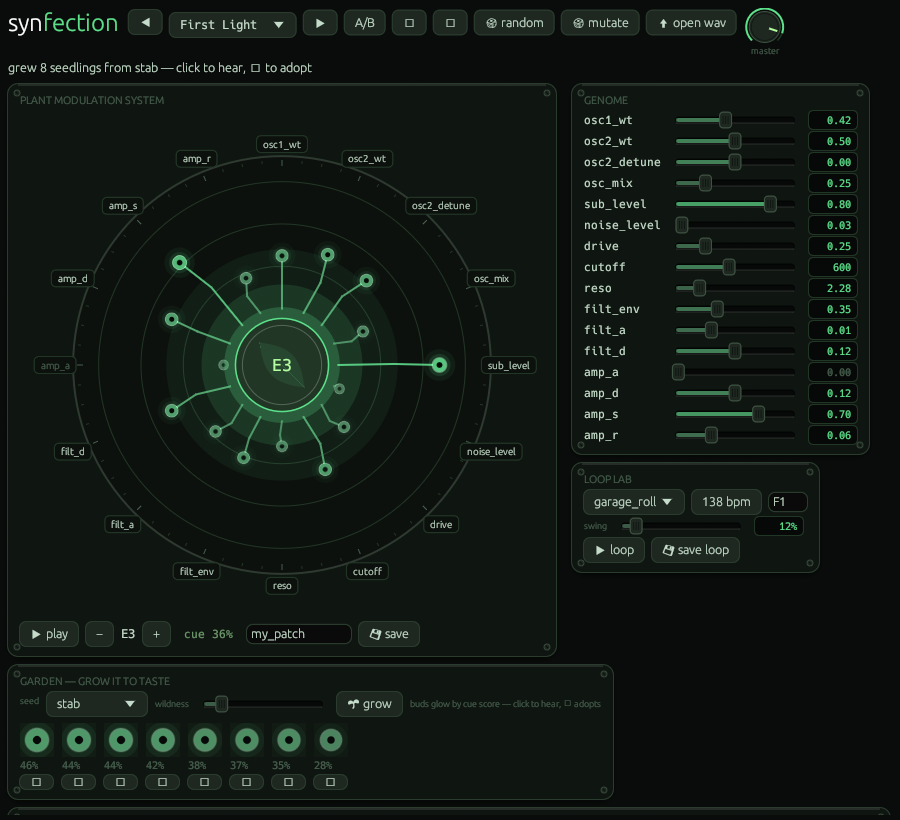
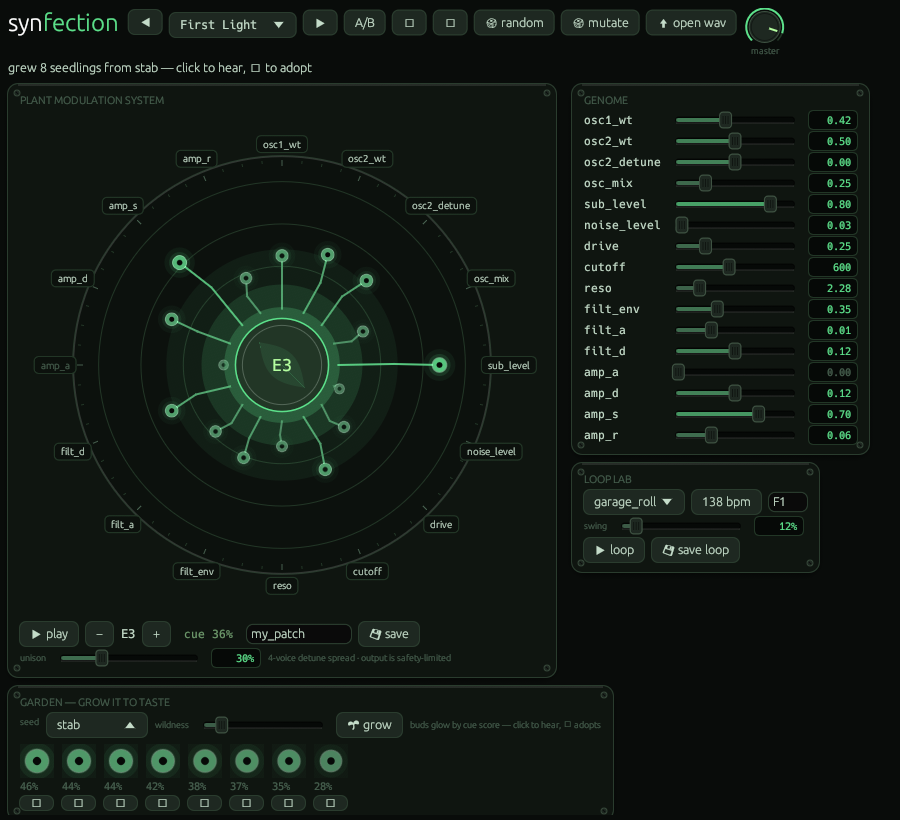
v0.3.2: fullscreen centering, output safety chain, unison thickener
- content column caps at 940px and centers when the window is wider
  (maximized no longer slopes everything to the left); windowed and
  narrow/stacked layouts unchanged
- built-in output safety on everything heard or saved: peak normalize
  to 0.9 ceiling -> RMS loudness guard (~-12 dBFS, screech protection)
  -> soft-knee tanh ceiling -> 3ms edge fades on one-shots (loops stay
  seamless). Applied to patches, loops, seedling auditions, targets.
- unison: 4-voice detune spread (5-30 cents) with decorrelating
  wrap-around offsets, loop-seam safe; slider in the plant panel
  (default 30%), applied before the safety chain so thick never clips
- tests: safety peak/rms/fade guarantees, thicken length + limit

Changed region(s): [[0.0, 0.7927, 0.6533, 1.0], [0.6844, 0.9756, 0.9956, 1.0], [0.5911, 0.7927, 0.6844, 0.8537]]

diff --git a/src/dsp.rs b/src/dsp.rs
@@ -167,6 +167,72 @@ pub fn detect_midi(x: &[f32], sr: f32) -> i32 {
     (69.0 + 12.0 * (f / 440.0).log2()).round() as i32
 }
 
+/// Unison thickener: 4 detuned voices (±depth cents) with small decorrelating
+/// offsets, wrap-around so looped buffers stay seamless. `amount` 0..1.
+pub fn thicken(x: &[f32], sr: f32, amount: f32) -> Vec<f32> {
+    if amount < 0.01 || x.len() < 64 {
+        return x.to_vec();
+    }
+    let depth = 5.0 + 25.0 * amount; // cents at full spread
+    let gain = 0.18 + 0.45 * amount; // per-voice level
+    let mut out = x.to_vec();
+    for (k, c) in [-1.0f32, -0.45, 0.45, 1.0].iter().enumerate() {
+        let ratio = 2.0f32.powf(c * depth / 1200.0);
+        let offs = (sr * 0.004 * (k as f32 + 1.0)) as usize;
+        for i in 0..x.len() {
+            let pos = i as f32 * ratio;
+            let j = pos as usize;
+            if j + 1 >= x.len() {
+                break;
+            }
+            let frac = pos - j as f32;
+            let s = x[j] * (1.0 - frac) + x[j + 1] * frac;
+            out[(i + offs) % x.len()] += s * gain;
+        }
+    }
+    out
+}
+
+const CEILING: f32 = 0.9; // peak ceiling
+const RMS_CAP: f32 = 0.25; // loudness guard (~-12 dBFS) — screech protection
+const KNEE: f32 = 0.75; // soft-clip knee start
+
+/// Built-in output safety: peak normalize -> loudness guard -> soft-knee
+/// ceiling -> click-killing edge fades (one-shots only; loops stay seamless).
+/// Guarantees nothing played or saved can clip or blast sustained loudness.
+pub fn safety(x: &mut [f32], sr: f32, looped: bool) {
+    if x.is_empty() {
+        return;
+    }
+    let peak = x.iter().fold(0.0f32, |m, v| m.max(v.abs()));
+    if peak > CEILING {
+        let s = CEILING / peak;
+        x.iter_mut().for_each(|v| *v *= s);
+    }
+    let rms = (x.iter().map(|v| (*v as f64) * (*v as f64)).sum::<f64>() / x.len() as f64).sqrt() as f32;
+    if rms > RMS_CAP {
+        let s = RMS_CAP / rms;
+        x.iter_mut().for_each(|v| *v *= s);
+    }
+    let span = CEILING - KNEE;
+    for v in x.iter_mut() {
+        let a = v.abs();
+        if a > KNEE {
+            *v = v.signum() * (KNEE + ((a - KNEE) / span).tanh() * span);
+        }
+    }
+    if !looped {
+        let n = (sr * 0.003) as usize;
+        let n = n.min(x.len() / 2).max(1);
+        for i in 0..n {
+            let g = i as f32 / n as f32;
+            x[i] *= g;
+            let last = x.len() - 1 - i;
+            x[last] *= g;
+        }
+    }
+}
+
 /// Linear resample (fine for feature extraction of mono hooks).
 pub fn resample(x: &[f32], from: f32, to: f32) -> Vec<f32> {
     if (from - to).abs() < 1e-3 {

diff --git a/src/ui.rs b/src/ui.rs
@@ -158,6 +158,7 @@ pub struct App {
     key: String,
     pattern_idx: usize,
     swing: f32,
+    unison: f32,
     // user patch library
     patch_name: String,
     user_patches: Vec<(String, std::path::PathBuf)>,
@@ -224,6 +225,7 @@ impl App {
             key: "F1".into(),
             pattern_idx: 0,
             swing: 0.12,
+            unison: 0.3,
             patch_name: "my_patch".into(),
             user_patches: list_patches(),
             user_sel: None,
@@ -234,9 +236,17 @@ impl App {
         app
     }
 
+    /// Unison thickener + output safety — everything heard or saved goes through this.
+    fn post(&self, audio: Vec<f32>, sr: f32, looped: bool) -> Vec<f32> {
+        let mut a = crate::dsp::thicken(&audio, sr, self.unison);
+        crate::dsp::safety(&mut a, sr, looped);
+        a
+    }
+
     fn render_current(&mut self) {
         let mut rng = SmallRng::seed_from_u64(0);
-        self.last_audio = synth::render_default(&self.genome, self.note as f32, &mut rng);
+        let raw = synth::render_default(&self.genome, self.note as f32, &mut rng);
+        self.last_audio = self.post(raw, synth::SR, false);
         self.last_sr = synth::SR;
     }
 
@@ -309,7 +319,8 @@ impl App {
         };
         let pat = loops::pattern(loops::PATTERN_NAMES[self.pattern_idx]).unwrap();
         let mut rng = SmallRng::seed_from_u64(0);
-        Some(loops::render_loop(&self.genome, root, self.bpm, &pat, 2, self.swing, &mut rng))
+        let raw = loops::render_loop(&self.genome, root, self.bpm, &pat, 2, self.swing, &mut rng);
+        Some(self.post(raw, loops::SR_OUT, true))
     }
 
     fn load_preset(&mut self, i: usize) {
@@ -821,6 +832,15 @@ impl eframe::App for App {
 
         egui::CentralPanel::default().show(ctx, |ui| {
             egui::ScrollArea::vertical().auto_shrink([false, false]).show(ui, |ui| {
+                // center a capped-width content column when the window is wide
+                let full = ui.available_width();
+                let content_w = full.min(940.0);
+                let pad = ((full - content_w) / 2.0).max(0.0);
+                ui.horizontal_top(|ui| {
+                ui.add_space(pad);
+                ui.vertical(|ui| {
+                ui.set_width(content_w);
+
                 self.top_bar(ui);
                 ui.add_space(2.0);
                 ui.label(egui::RichText::new(&self.status).size(12.5).color(TEXT));
@@ -872,6 +892,18 @@ impl eframe::App for App {
                             if ui.button("💾 save").on_hover_text("save to your patch library\n(Documents/synfection/patches)").clicked() {
                                 app.save_current_patch();
                             }
+                        });
+                        ui.horizontal(|ui| {
+                            ui.label(egui::RichText::new("unison").color(DIM).small());
+                            if param_slider_w(ui, &mut app.unison, 150.0) {
+                                app.render_current();
+                            }
+                            value_box(ui, &format!("{:.0}%", app.unison * 100.0), app.unison > 0.01);
+                            ui.label(
+                                egui::RichText::new("4-voice detune spread · output is safety-limited")
+                                    .color(DIM)
+                                    .small(),
+                            );
                         });
                     });
                 };
@@ -997,7 +1029,8 @@ impl eframe::App for App {
                                     let s = &self.seedlings[i];
                                     if bud(ui, s.score).clicked() {
                                         let mut rng = SmallRng::seed_from_u64(0);
-                                        let a = synth::render_default(&s.genome, self.note as f32, &mut rng);
+                                        let raw = synth::render_default(&s.genome, self.note as f32, &mut rng);
+                                        let a = self.post(raw, synth::SR, false);
                                         self.audio.play(&a, synth::SR, false);
                                     }
                                     ui.label(
@@ -1039,7 +1072,9 @@ impl eframe::App for App {
                         ui.horizontal(|ui| {
                             ui.label(egui::RichText::new(format!("target · {}", self.target_name)).color(DIM).small());
                             if ui.small_button("▶ target").clicked() {
-                                self.audio.play(&t, synth::SR, false);
+                                let mut safe = t.clone();
+                                crate::dsp::safety(&mut safe, synth::SR, false);
+                                self.audio.play(&safe, synth::SR, false);
                             }
                             if ui.small_button("↻ re-clone").clicked() {
                                 self.status = "re-cloning...".into();
@@ -1054,6 +1089,9 @@ impl eframe::App for App {
                         waveform(ui, &t, DIM, w);
                     }
                 });
+
+                }); // content column
+                }); // centering row
             });
         });
 

diff --git a/tests/parity.rs b/tests/parity.rs
@@ -138,6 +138,36 @@ fn archetype_seeds_are_mostly_alive() {
 }
 
 #[test]
+fn safety_limits_loudness_and_peaks() {
+    // worst case: full-scale constant screech
+    let sr = 22050.0;
+    let mut x: Vec<f32> = (0..22050)
+        .map(|i| (2.0 * std::f32::consts::PI * 3000.0 * i as f32 / sr).sin() * 1.5)
+        .collect();
+    dsp::safety(&mut x, sr, false);
+    let peak = x.iter().fold(0.0f32, |m, v| m.max(v.abs()));
+    let rms = (x.iter().map(|v| (*v as f64) * (*v as f64)).sum::<f64>() / x.len() as f64).sqrt();
+    assert!(peak <= 0.9 + 1e-3, "peak {peak} above ceiling");
+    assert!(rms <= 0.25 + 1e-2, "rms {rms} above loudness cap");
+    // click-killing fades: edges start/end at silence
+    assert!(x[0].abs() < 1e-6 && x[x.len() - 1].abs() < 1e-6);
+}
+
+#[test]
+fn thicken_preserves_length_and_survives_safety() {
+    let sr = 22050.0;
+    let x: Vec<f32> = (0..8192)
+        .map(|i| (2.0 * std::f32::consts::PI * 110.0 * i as f32 / sr).sin() * 0.8)
+        .collect();
+    let mut y = dsp::thicken(&x, sr, 1.0);
+    assert_eq!(y.len(), x.len());
+    dsp::safety(&mut y, sr, true);
+    let peak = y.iter().fold(0.0f32, |m, v| m.max(v.abs()));
+    assert!(peak <= 0.9 + 1e-3);
+    assert!(peak > 0.1, "thickened audio should not be silent");
+}
+
+#[test]
 fn patch_roundtrip_with_note() {
     let dir = std::env::temp_dir().join("synfection_test");
     std::fs::create_dir_all(&dir).unwrap();